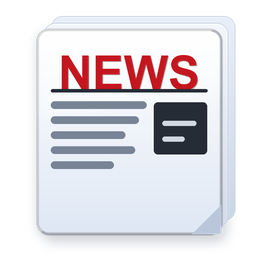
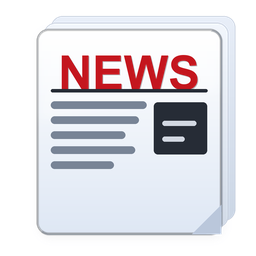
图标去掉深色投影(深色桌面下会变成黑色壳)，改浅色描边；版本收敛回 1.5.1，不新增版本号

Changed region(s): [[0.1875, 0.875, 0.9062, 0.9688], [0.125, 0.125, 0.1562, 0.875], [0.1562, 0.0938, 0.8125, 0.125]]

diff --git a/make_icon.py b/make_icon.py
@@ -71,17 +71,21 @@ def main():
     px0, py0 = int(S * 0.145), int(S * 0.115)      # 主纸左上
     radius = int(S * 0.045)
 
-    # ---------- 1) 整体投影（立体感的关键）----------
+    # ---------- 1) 极淡的中性投影 ----------
+    # 【2026-10-07 用户反馈「图标不要有黑色的透明壳」】
+    # 原来画的是深蓝黑投影（RGB 12,30,58 且 alpha 高），在深色桌面/深色主题下
+    # 会变成一圈脏兮兮的黑边 —— 看着就像图标外面套了个黑色透明壳。
+    # 现在改成**很淡的中性灰**，只留一点点"离开桌面"的感觉，绝不再发黑。
     shadow = Image.new("L", (S, S), 0)
     sd = ImageDraw.Draw(shadow)
-    for i, off in enumerate(((10, 16), (16, 24), (22, 32))):     # 三层做实投影
+    for i, off in enumerate(((6, 10), (10, 16))):
         sd.rounded_rectangle([px0 + off[0], py0 + off[1],
                               px0 + pw + off[0], py0 + ph + off[1]],
-                             radius=radius, fill=110 - i * 30)
-    shadow = shadow.filter(ImageFilter.GaussianBlur(int(S * 0.022)))
+                             radius=radius, fill=34 - i * 14)
+    shadow = shadow.filter(ImageFilter.GaussianBlur(int(S * 0.016)))
     canvas = Image.alpha_composite(canvas, Image.merge("RGBA", (
-        Image.new("L", (S, S), 12), Image.new("L", (S, S), 30),
-        Image.new("L", (S, S), 58), shadow)))
+        Image.new("L", (S, S), 120), Image.new("L", (S, S), 124),
+        Image.new("L", (S, S), 130), shadow)))
 
     # ---------- 2) 堆叠的纸页边（后方两层，错位）----------
     for k, (dx, dy, tone) in enumerate((
@@ -97,6 +101,13 @@ def main():
 
     # ---------- 3) 主纸（浅渐变 + 斜面）----------
     canvas = paste_grad(canvas, (px0, py0, pw, ph), radius, PAPER_TOP, PAPER_BOT)
+    # 浅灰细描边：保证在**深色桌面**上也有清晰边界（用户要求"不要黑色壳"，那就用浅色描边）
+    _rim = Image.new("RGBA", (S, S), (0, 0, 0, 0))
+    ImageDraw.Draw(_rim).rounded_rectangle(
+        [px0, py0, px0 + pw, py0 + ph], radius=radius,
+        outline=(176, 186, 202, 235), width=max(3, S // 220))
+    _rim = _rim.filter(ImageFilter.GaussianBlur(S // 700))
+    canvas = Image.alpha_composite(canvas, _rim)
 
     # 斜面：左上亮边、右下暗边
     bevel = Image.new("RGBA", (S, S), (0, 0, 0, 0))
